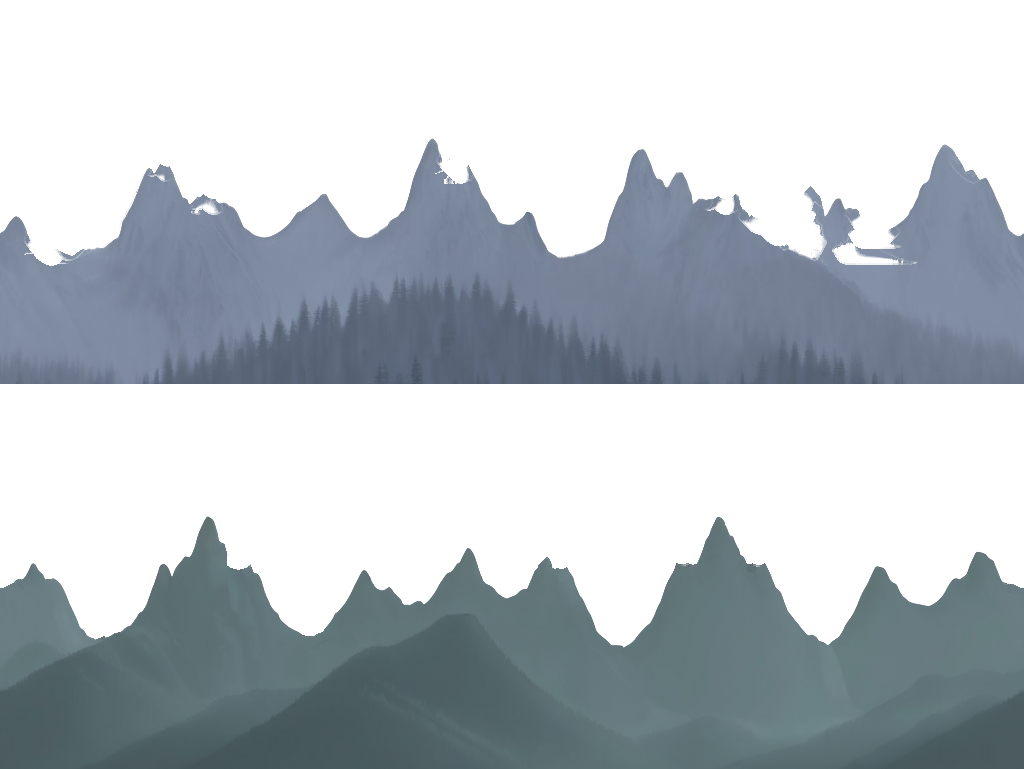
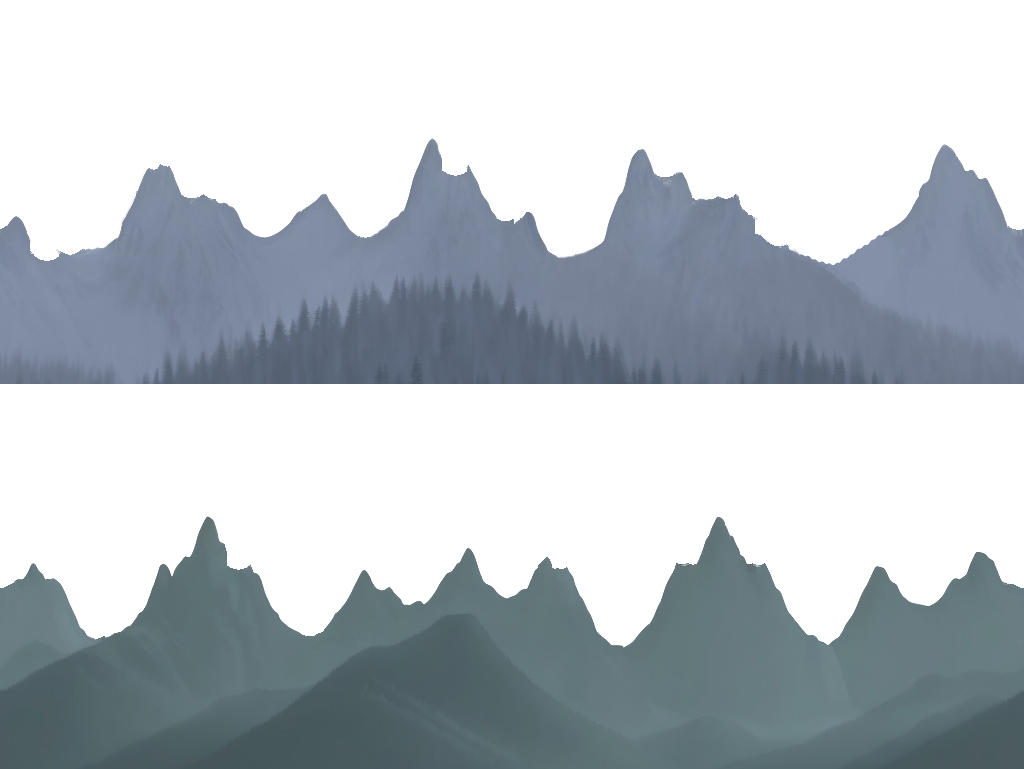
Forest page: the far peaks (l0) without their twig and sliver, opaque under their ridge (r467)
Between two of l0's peaks stood a free-standing twig on a thin neck and a one-pixel sliver, sky
between them and in a pocket under the right peak's flank: in the shadow lab's A panel a dark
stepped shape over the pale range. tools/r467-far-peaks/cut.py redraws the skyline in those columns
(x 800-918): the valley floor they stood on, the right peak's flank carried down at its own slope,
the joint rounded, a row of roughness so it does not read ruler-drawn; then r466's fill.py, now
--region l0|l1, fills l0's other pockets as it did l1's.

fill.py also bleeds colour into a clear pixel beside a new edge: left at 0, Linear filtering drew a
dark line along every redrawn ridge (seen on l0; 87 pixels of r466's l1 saddles get it too, alpha
unchanged). Both checks report 0 left. The hills and shadow lab tiles re-shot.

Persona: Iris Ralax
Session: iris-fedora-parallax-242

diff --git a/tools/r467-far-peaks/cut.py b/tools/r467-far-peaks/cut.py
@@ -1,0 +1,105 @@
+"""Redraws the far peaks' skyline where a twig and a sliver stood (r467).
+
+    python3 tools/r467-far-peaks/cut.py [--check] [--show OUT.png]
+
+The far peaks strip (core/test-data/hills/forest.png, region l0) had, between two peaks at x 800-918, a free-standing
+twig on a thin neck (x 804-860) and a one-or-two-pixel sliver (x 855-917, y 247-262), the sky between them and in a
+pocket under the right peak's flank. Neither is a mountain. Here, in those columns only, the skyline is drawn again:
+the valley floor the twig and the sliver stood on (row FLOOR, met from the left peak's foot), and the right peak's flank
+carried down at its own slope until it meets that floor, the joint rounded. Above it: transparent (colour 0, as
+core/test-data/hills/make_lab.py's clean). Under it: opaque, a new pixel's colour what diffuses in from the opaque
+pixels around it (tools/r466-range-holes/fill.py's diffuse), and a lone speck over the sky cleared. l1 untouched.
+Then tools/r466-range-holes/fill.py --region l0 fills l0's pockets beside its other peaks, as r466 did l1's.
+--check: exits 1 when a column of l0 has a pixel under its ridge that is not opaque, or a shape standing free above it.
+--show: the result on magenta, what changed in red.
+"""
+import importlib.util
+import os
+import sys
+
+import numpy as np
+from PIL import Image
+
+HERE = os.path.dirname(os.path.abspath(__file__))
+PNG = os.path.join(HERE, "..", "..", "core", "test-data", "hills", "forest.png")
+H = 384  # l0: rows 0-383 of forest.png
+X0, X1 = 800, 918  # the columns redrawn; the ridge is kept either side
+FLOOR = 264.0  # the deepest row of the sky under the twig and the sliver: the valley they stood on
+FLANK, FLANK_TO = 889, 904  # the right peak's flank, its slope measured over these columns
+ROUGH = 1.2  # rows
+
+spec = importlib.util.spec_from_file_location("fill", os.path.join(HERE, "..", "r466-range-holes", "fill.py"))
+fill = importlib.util.module_from_spec(spec)
+spec.loader.exec_module(fill)
+
+
+def skyline(alpha):
+    """The new ridge over X0..X1, a fractional row per column."""
+    top = fill.ridge(alpha).astype(np.float64)
+    xs = np.arange(X0, X1 + 1, dtype=np.float64)
+    left = top[X0] + (FLOOR - top[X0]) * np.clip((xs - X0) / 26, 0, 1)  # down the left peak's foot to the floor
+    slope = (top[FLANK] - top[FLANK_TO]) / (FLANK_TO - FLANK)
+    flank = np.where(xs >= FLANK, top[X0:X1 + 1], top[FLANK] + (FLANK - xs) * slope)
+    line = np.minimum(left, flank)  # rows: the smaller is the higher
+    kernel = np.ones(7) / 7  # round the joints; the ends keep the ridge either side
+    smooth = np.convolve(np.pad(line, 3, mode="edge"), kernel, "valid")
+    redrawn = (xs > X0 + 3) & (xs < FLANK)  # a ruler-straight flank reads drawn: the painted ridges' own roughness
+    return smooth + redrawn * ROUGH * (np.sin(xs * 0.9) * 0.6 + np.sin(xs * 0.37 + 1.3) * 0.4)
+
+
+def cut(strip):
+    alpha = strip[..., 3]
+    line = skyline(alpha)
+    rows = np.arange(H, dtype=np.float64)[:, None]
+    cover = np.clip(rows + 1 - line[None, :], 0, 1)  # each pixel's share under the line: the edge's soft row
+    colour = fill.diffuse(strip[..., :3], alpha == 255)
+    out = strip.copy()
+    part = out[:, X0:X1 + 1]
+    old = alpha[:, X0:X1 + 1, None] / 255
+    part[..., :3] = np.where(cover[..., None] > 0, part[..., :3] * old + colour[:, X0:X1 + 1] * (1 - old), 0)
+    part[..., 3] = cover * 255
+    return fill.bleed(out, colour)
+
+
+def unspeck(strip):
+    """A pixel a row thick, sky over and under it: the one speck left on l0's skyline (x 137)."""
+    a = strip[..., 3]
+    speck = (a > 0) & (np.roll(a, 1, 0) == 0) & (np.roll(a, -1, 0) == 0)
+    speck[0] = speck[-1] = False
+    strip[speck] = 0
+    return strip
+
+
+def problems(alpha):
+    """The pixels of l0 under its ridge not opaque, and the opaque ones over a gap of sky in their column."""
+    under = fill.holes(alpha)
+    rows = np.arange(H)[:, None]
+    opaque = alpha >= 128
+    lowest_sky = H - 1 - np.argmax((alpha[::-1] == 0), axis=0)  # the lowest clear pixel of each column
+    free = opaque & (rows < lowest_sky[None, :])
+    return under, free
+
+
+def main(argv):
+    page = np.array(Image.open(PNG).convert("RGBA"))
+    strip = page[:H].astype(np.float64)
+    if "--check" in argv:
+        under, free = problems(strip[..., 3])
+        print(f"l0: {int(under.sum())} pixels not opaque under the ridge, {int(free.sum())} standing over the sky")
+        return 1 if under.any() or free.any() else 0
+    out = page.copy()
+    out[:H] = np.rint(unspeck(cut(strip))).astype(np.uint8)
+    if "--show" in argv:
+        img = Image.new("RGBA", (page.shape[1], H), (255, 0, 255, 255))
+        img.alpha_composite(Image.fromarray(out[:H]))
+        img = np.array(img)
+        img[(out[:H] != page[:H]).any(axis=2)] = (255, 0, 0, 255)
+        Image.fromarray(img).save(argv[argv.index("--show") + 1])
+        return 0
+    Image.fromarray(out).save(PNG, optimize=True)
+    print(f"l0: {int((out != page).any(axis=2).sum())} pixels changed in x {X0}-{X1}; {PNG}")
+    return 0
+
+
+if __name__ == "__main__":
+    sys.exit(main(sys.argv[1:]))

diff --git a/tools/r466-range-holes/fill.py b/tools/r466-range-holes/fill.py
@@ -1,6 +1,6 @@
 """Fills the holes under the range's ridge in the forest page's l1 (r466).
 
-    python3 tools/r466-range-holes/fill.py [--check] [--show OUT.png]
+    python3 tools/r466-range-holes/fill.py [--region l0|l1] [--check] [--show OUT.png]
 
 The range strip (core/test-data/hills/forest.png, region l1) was cut with pockets under its ridge: overhanging nubs
 beside the peaks and stepped, see-through cut-outs between them, the sky (and the shadow lab's setting sun) showing
@@ -8,7 +8,8 @@ through. Here every pixel of a column below that column's ridge (its first pixel
 under it, the ridge's own soft edge) is made opaque. Filled straight down, the nubs either side of a pocket would leave a
 slot with upright walls between them, so near a hole the ridge is first closed: a dip narrower than 2 DIP + 1 columns
 is raised to the lower of its two sides, sagging into a saddle (SAG of its width at its middle). A filled pixel's colour is what it had over what diffuses in from the opaque
-pixels around it. The ridge line stays the strip's only edge. Rewrites forest.png in place, l0 untouched.
+pixels around it, and so does a clear pixel's next to the new edge. The ridge line stays the strip's only edge. Rewrites forest.png in place, the other region untouched.
+--region: l1 (the default) or l0, the far peaks, whose pockets r467 filled the same way after tools/r467-far-peaks/cut.py.
 --check: exits 1 when a hole is left (nothing written). --show: the result on magenta, what changed in red.
 """
 import os
@@ -19,7 +20,8 @@ from PIL import Image
 
 HERE = os.path.dirname(os.path.abspath(__file__))
 PNG = os.path.join(HERE, "..", "..", "core", "test-data", "hills", "forest.png")
-Y, W, H = 385, 1024, 384  # l1 in forest.atlas
+W, H = 1024, 384
+REGIONS = {"l0": 0, "l1": 385}  # each region's first row in forest.atlas
 DIP, NEAR, SAG = 12, 16, 0.2  # half the widest dip closed; how far from a hole; how deep a closed dip sags, per column
 
 
@@ -94,27 +96,43 @@ def fill(strip):
     out = strip.copy()
     out[..., :3] = np.where(under[..., None], strip[..., :3] * a + colour * (1 - a), strip[..., :3])
     out[..., 3] = np.where(under, 255, alpha)
-    return out
+    return bleed(out, colour)
+
+
+def bleed(strip, colour):
+    """A clear pixel beside a seen one, its colour 0, given the colour around it: the reader draws with Linear, and the
+    0 bleeds into the edge as a dark line (make_lab.py's clean keeps colour that close for the same reason)."""
+    seen = strip[..., 3] > 0
+    beside = np.zeros_like(seen)
+    for dy in (-1, 0, 1):
+        for dx in (-1, 0, 1):
+            beside |= np.roll(seen, (dy, dx), (0, 1))
+    beside[0] = beside[-1] = False  # np.roll wraps the rows: the strip loops across, not up
+    blank = beside & ~seen & (strip[..., :3] == 0).all(axis=2)
+    strip[blank, :3] = colour[blank]
+    return strip
 
 
 def main(argv):
+    name = argv[argv.index("--region") + 1] if "--region" in argv else "l1"
+    y0 = REGIONS[name]
     page = np.array(Image.open(PNG).convert("RGBA"))
-    strip = page[Y:Y + H].astype(np.float64)
+    strip = page[y0:y0 + H].astype(np.float64)
     hole = holes(strip[..., 3])
     if "--check" in argv:
-        print(f"l1: {int(hole.sum())} pixels not opaque under the ridge")
+        print(f"{name}: {int(hole.sum())} pixels not opaque under the ridge")
         return 1 if hole.any() else 0
     out = page.copy()
-    out[Y:Y + H] = np.rint(fill(strip)).astype(np.uint8)
+    out[y0:y0 + H] = np.rint(fill(strip)).astype(np.uint8)
     if "--show" in argv:
         img = Image.new("RGBA", (W, H), (255, 0, 255, 255))
-        img.alpha_composite(Image.fromarray(out[Y:Y + H]))
+        img.alpha_composite(Image.fromarray(out[y0:y0 + H]))
         img = np.array(img)
-        img[(out[Y:Y + H] != page[Y:Y + H]).any(axis=2)] = (255, 0, 0, 255)
+        img[(out[y0:y0 + H] != page[y0:y0 + H]).any(axis=2)] = (255, 0, 0, 255)
         Image.fromarray(img).save(argv[argv.index("--show") + 1])
         return 0
     Image.fromarray(out).save(PNG, optimize=True)
-    print(f"l1: {int(hole.sum())} holes filled, {int((out != page).any(axis=2).sum())} pixels changed; {PNG}")
+    print(f"{name}: {int(hole.sum())} holes filled, {int((out != page).any(axis=2).sum())} pixels changed; {PNG}")
     return 0
 
 

diff --git a/core/test-data/hills/make_lab.py b/core/test-data/hills/make_lab.py
@@ -10,8 +10,10 @@ strip). HillsLab (core/browser-test) puts a candidate's region in place of the p
 transparent one more than a pixel from any other, set to 0, as core/test-data/anim/make_lab.py does, so each page is
 under the push check's 1 MB. candidates.json: each candidate's name, recipe and measures (colour std inside the mask
 shrunk by 8 px, alpha IoU against today's of the same seed), in the order the lab lists them. Never repaint them: a
-lab judged on these pixels is judged on these pixels. One exception, r466: forest.png's l1 (the range) had see-through
-pockets under its ridge, filled by tools/r466-range-holes/fill.py; run it again after this script.
+lab judged on these pixels is judged on these pixels. Two exceptions: forest.png's l1 (the range) had see-through
+pockets under its ridge, filled by tools/r466-range-holes/fill.py (r466), and its l0 (the far peaks) a free-standing twig
+and a sliver between two peaks, redrawn by tools/r467-far-peaks/cut.py, and pockets like l1's (r467). After this script:
+cut.py, then fill.py --region l0, then fill.py.
 """
 import json
 import os
